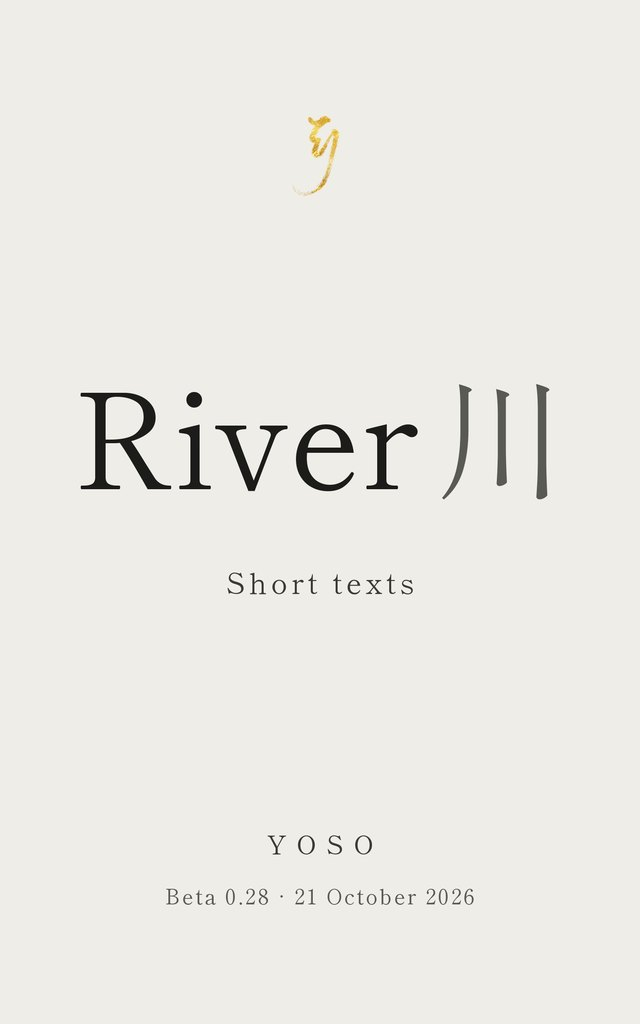
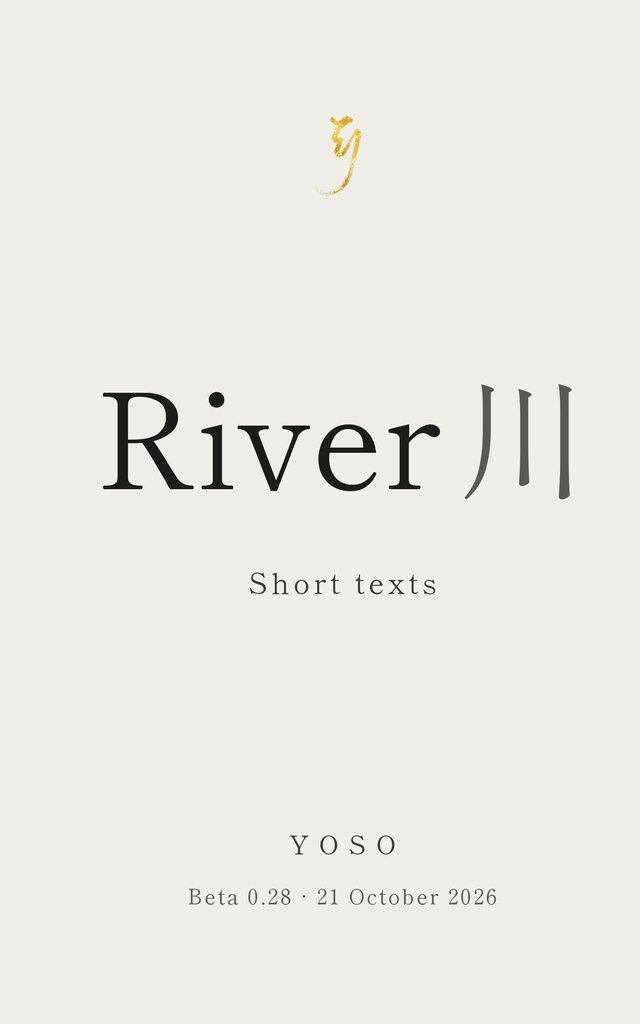
Beta 0.30: Cover lettering centred on the face of the book
The site shades the cover's left edge as a spine, so the home page copy
of the cover moves its lettering right by half the spine width.
The PDF and EPUB covers are unchanged.

Claude-Session: https://claude.ai/code/session_017B9UdP2XUqJLh1rLrBrUhj

diff --git a/index.html b/index.html
@@ -248,7 +248,7 @@ footer.site{display:flex;flex-wrap:wrap;gap:12px;justify-content:space-between;p
   <p class="mt-note" id="mt-note" hidden></p>
   <footer class="site">
     <span><span id="foot-l">© <a class="hub-link" href="https://hub.yoso.one">Yoso</a> · Miyazaki, Japan</span> · <a class="foot-donate" id="foot-donate" href="https://donate.yoso.one/?for=river">Donate</a></span>
-    <span><span id="foot-r">Mind is home</span> · <span class="version" data-version>Beta 0.29</span></span>
+    <span><span id="foot-r">Mind is home</span> · <span class="version" data-version>Beta 0.30</span></span>
   </footer>
 </div>
 

diff --git a/book.py b/book.py
@@ -45,6 +45,9 @@ SITE = "river.yoso.one"
 DEDICATION_TEXT = 38          # 'A quiet river'
 DEDICATION_TO = "For Yuko"
 HUB = "hub.yoso.one"
+# Half the width of the spine shading on the site (.cover::before, 7%), in
+# cover pixels (1600 wide).
+SITE_COVER_SHIFT = 56
 
 STRING = r'"((?:[^"\\]|\\.)*)"'
 ITEM = re.compile(r"\{n:(\d+),\s*t:" + STRING + r",\s*v:" + STRING)
@@ -264,8 +267,12 @@ def xhtml(title, body, cls=""):
     )
 
 
-def make_cover(version, d):
-    """1600 x 2560 cover image, drawn with the book's own typeface."""
+def make_cover(version, d, shift=0):
+    """1600 x 2560 cover image, drawn with the book's own typeface.
+
+    shift moves everything right by that many pixels: the site draws a shaded
+    spine down the cover's left edge, so its copy is centred on the face.
+    """
     from io import BytesIO
     from PIL import Image, ImageDraw, ImageFont
 
@@ -278,21 +285,21 @@ def make_cover(version, d):
         f = ImageFont.truetype(reg, size)
         if spacing:  # letter-spaced line, drawn one character at a time
             widths = [dr.textlength(c, font=f) for c in text]
-            x = (W - (sum(widths) + spacing * (len(text) - 1))) / 2
+            x = (W - (sum(widths) + spacing * (len(text) - 1))) / 2 + shift
             for c, w in zip(text, widths):
                 dr.text((x, y), c, font=f, fill=fill)
                 x += w + spacing
         else:
-            dr.text(((W - dr.textlength(text, font=f)) / 2, y), text, font=f, fill=fill)
+            dr.text(((W - dr.textlength(text, font=f)) / 2 + shift, y), text, font=f, fill=fill)
 
     mark = Image.open(MARK).convert("RGBA").resize((200, 200), Image.LANCZOS)
-    img.paste(mark, ((W - 200) // 2, 290), mark)
+    img.paste(mark, ((W - 200) // 2 + shift, 290), mark)
 
     big = ImageFont.truetype(reg, 330)
     w1 = dr.textlength(TITLE, font=big)
     w2 = dr.textlength(KANJI, font=big)
     gap = 40
-    x = (W - (w1 + gap + w2)) / 2
+    x = (W - (w1 + gap + w2)) / 2 + shift
     dr.text((x, 840), TITLE, font=big, fill="#1C1C1A")
     dr.text((x + w1 + gap, 840), KANJI, font=big, fill="#5A5A55")
     centred(SUBTITLE, 1400, 72, "#3A3A36", spacing=10)
@@ -441,10 +448,11 @@ def publish(stem, version, d, count):
     for old in PUBLIC.glob("river-beta-*"):
         old.unlink()
     info = {"version": version, "date": d.isoformat(), "texts": count}
-    # The cover, smaller, for the home page's book section.
+    # The cover, smaller, for the home page's book section. The site shades
+    # the left 7% as a spine, so the lettering moves right by half of that.
     from io import BytesIO
     from PIL import Image
-    cover = Image.open(BytesIO(make_cover(version, d))).resize((640, 1024), Image.LANCZOS)
+    cover = Image.open(BytesIO(make_cover(version, d, shift=SITE_COVER_SHIFT))).resize((640, 1024), Image.LANCZOS)
     cover_name = f"{stem}-cover.jpg"
     cover.save(PUBLIC / cover_name, "JPEG", quality=86, optimize=True, progressive=True)
     info["cover"] = f"books/{cover_name}"
